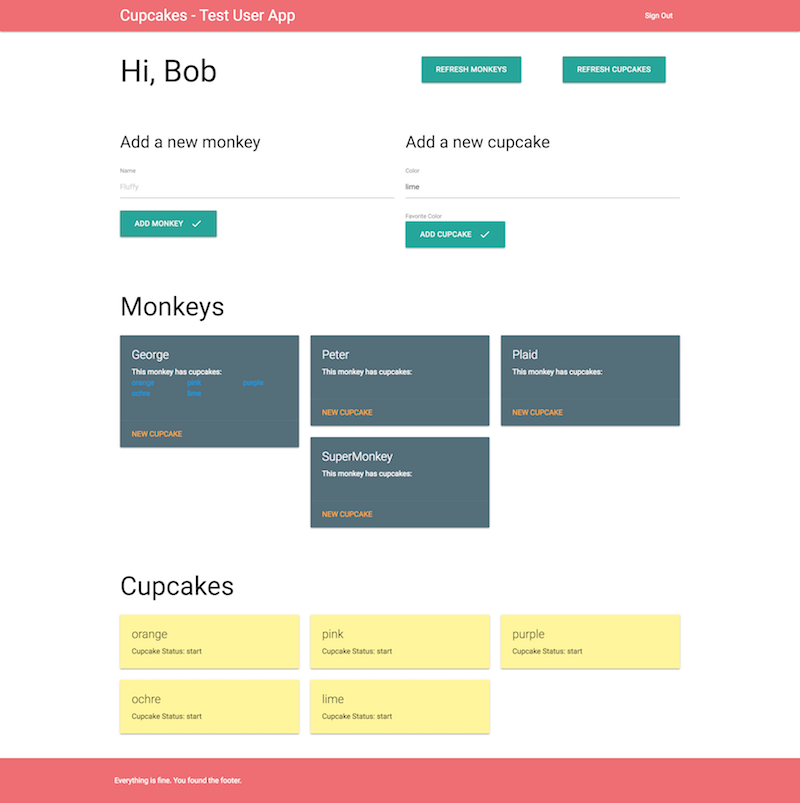
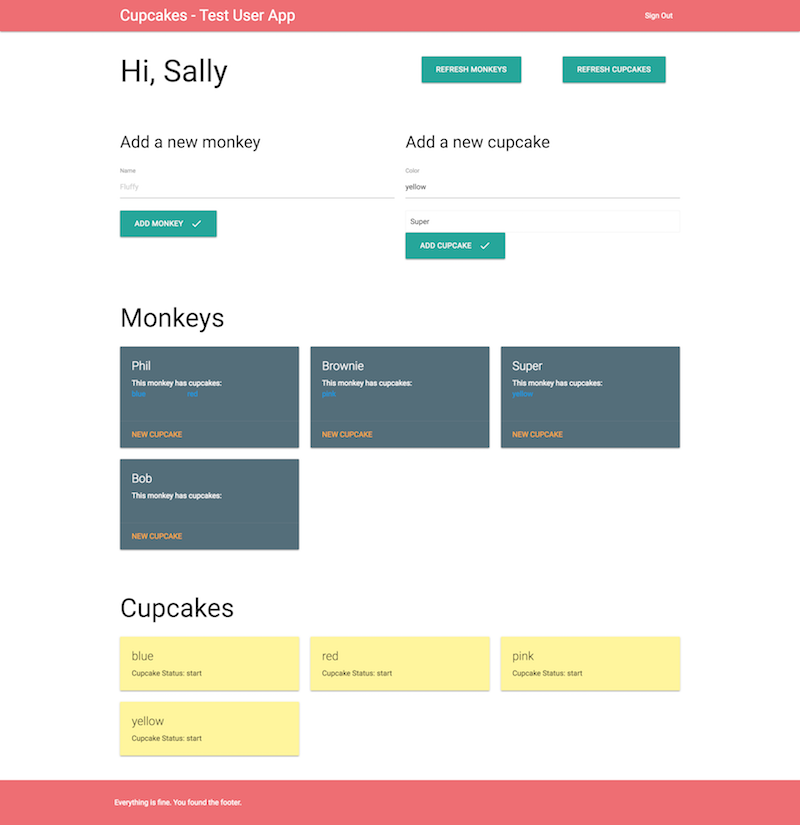
match readme to current user dashboard

diff --git a/README.md b/README.md
@@ -62,7 +62,7 @@ npm run dev
 Navigate to `localhost:3000` in your browser. Watch detailed redux logs in the javascript console
 
 ### Components
-Currently, MERN Cupcake has a landing page, a signup form, and a signin form. Users can log out by clicking the signout. There is no user content yet. That is next.
+Currently, MERN Cupcake has a landing page, a signup form, and a signin form. Users can log out by clicking the signout. Once a user is authenticated, they see the dashboard.
 
 #### Add users to the db with the Sign Up form
 ![SignUp Form Screenshot](/screenshots/signupform.png)
@@ -70,10 +70,10 @@ Currently, MERN Cupcake has a landing page, a signup form, and a signin form. Us
 #### Sign in users with the Sign In form
 ![SignIn Form Screenshot](/screenshots/signinform.png)
 
-#### Users go to a dashboard when log in is successful. The dashboard shows the currently logged in user, allows adding monkeys, and will show monkeys as simple cards
+#### Users go to a dashboard when log in is successful. The dashboard shows the currently logged in user, allows adding monkeys, allows adding cupcakes to monkeys, and shows monkeys with their cupcakes in cards and cupcakes alone in cards. 
 ![Dashboard Screenshot](/screenshots/userdash.png)
 
-#### Big Deal - if you see this, just go to the routhe `/signout` to clear the authenticated=true
+#### Big Deal - if you see this, just go to the routh `/signout` to clear the authenticated=true. We can fix this by adding a 'go find the user from the token' but that has not been added yet.
 ![Dashboard Screenshot](/screenshots/needtosignout.png)
 
 ### Contributing
